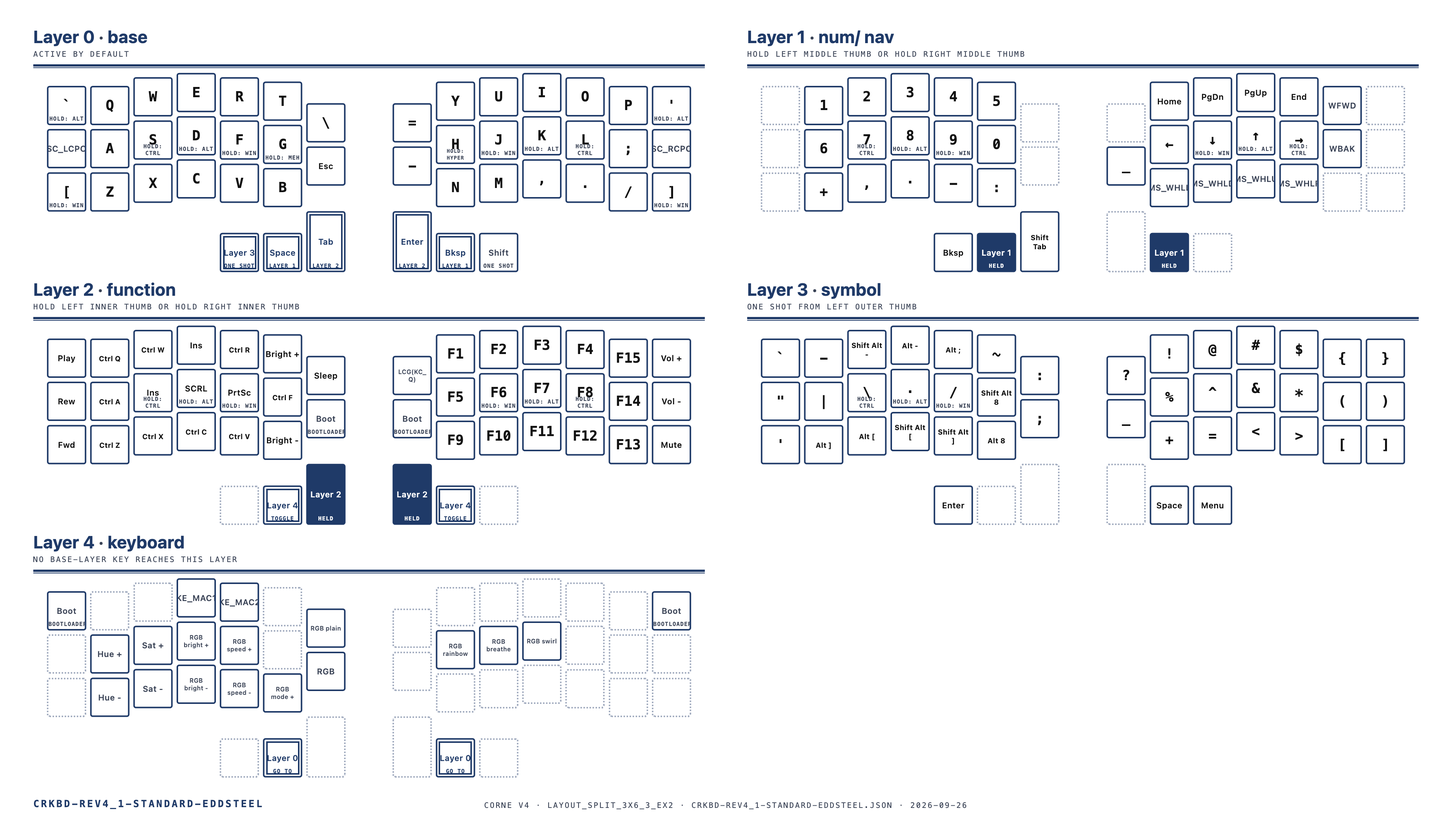
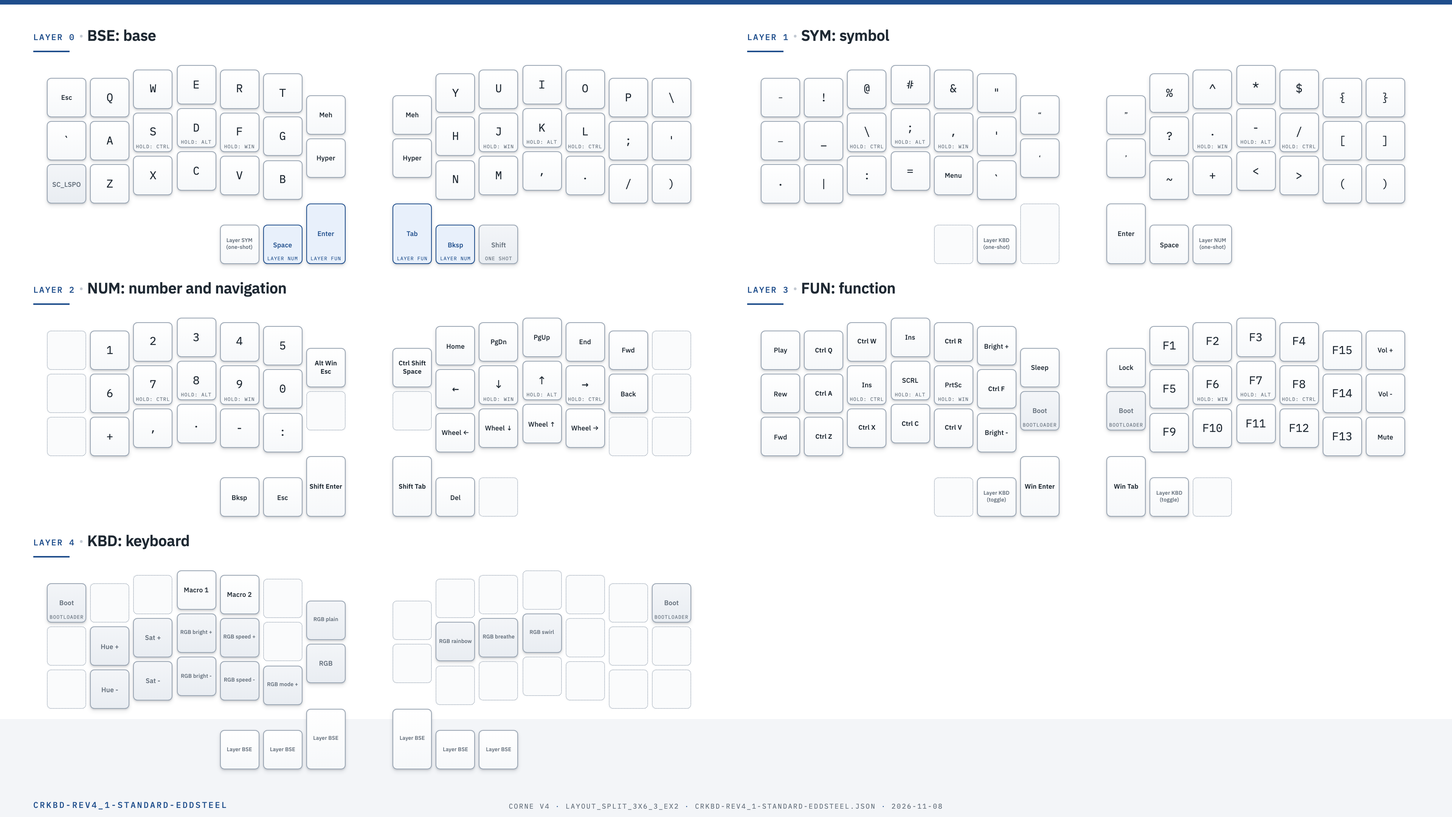
updated

diff --git a/keyboards/zsa/moonlander/reva/keymaps/eddsteel/keymap.c b/keyboards/zsa/moonlander/reva/keymaps/eddsteel/keymap.c
@@ -1,4 +1,5 @@
 #include QMK_KEYBOARD_H
+#include "version.h"
 #define MOON_LED_LEVEL LED_LEVEL
 #ifndef ZSA_SAFE_RANGE
 #define ZSA_SAFE_RANGE SAFE_RANGE
@@ -12,46 +13,49 @@ enum custom_keycodes {
   HSV_234_255_255,
 };
 
+
+
+
 const uint16_t PROGMEM keymaps[][MATRIX_ROWS][MATRIX_COLS] = {
   [0] = LAYOUT_moonlander(
     KC_TRANSPARENT, KC_TRANSPARENT, KC_TRANSPARENT, KC_TRANSPARENT, KC_TRANSPARENT, KC_TRANSPARENT, KC_TRANSPARENT,                                 KC_TRANSPARENT, KC_TRANSPARENT, KC_TRANSPARENT, KC_TRANSPARENT, KC_TRANSPARENT, KC_TRANSPARENT, KC_TRANSPARENT, 
-    MT(MOD_LALT, KC_GRAVE),KC_Q,           KC_W,           KC_E,           KC_R,           KC_T,           KC_BSLS,                                        KC_EQUAL,       KC_Y,           KC_U,           KC_I,           KC_O,           KC_P,           MT(MOD_RALT, KC_QUOTE),
-    SC_LCPO,        KC_A,           MT(MOD_LCTL, KC_S),MT(MOD_LALT, KC_D),MT(MOD_LGUI, KC_F),MEH_T(KC_G),    KC_ESCAPE,                                                                      KC_MINUS,       ALL_T(KC_H),    MT(MOD_RGUI, KC_J),MT(MOD_LALT, KC_K),MT(MOD_LCTL, KC_L),KC_SCLN,        SC_RCPC,        
-    MT(MOD_LGUI, KC_LBRC),KC_Z,           KC_X,           KC_C,           KC_V,           KC_B,                                           KC_N,           KC_M,           KC_COMMA,       KC_DOT,         KC_SLASH,       MT(MOD_RGUI, KC_RBRC),
-    KC_MEDIA_PLAY_PAUSE,KC_MEDIA_PREV_TRACK,KC_MEDIA_NEXT_TRACK,KC_TRANSPARENT, OSL(3),         KC_APPLICATION,                                                                                                 LCTL(KC_SPACE), OSM(MOD_LSFT),  KC_TRANSPARENT, KC_AUDIO_MUTE,  KC_AUDIO_VOL_DOWN,KC_AUDIO_VOL_UP,
-    LT(1, KC_SPACE),LT(2, KC_TAB),  KC_TRANSPARENT,                 KC_TRANSPARENT, LT(2, KC_ENTER),LT(1, KC_BSPC)
+    KC_ESCAPE,      KC_Q,           KC_W,           KC_E,           KC_R,           KC_T,           KC_MEH,                                         KC_MEH,         KC_Y,           KC_U,           KC_I,           KC_O,           KC_P,           KC_BSLS,        
+    KC_GRAVE,       KC_A,           MT(MOD_LCTL, KC_S),MT(MOD_LALT, KC_D),MT(MOD_LGUI, KC_F),MEH_T(KC_G),    KC_HYPR,                                                                        KC_HYPR,        ALL_T(KC_H),    MT(MOD_RGUI, KC_J),MT(MOD_LALT, KC_K),MT(MOD_LCTL, KC_L),KC_SCLN,        KC_QUOTE,       
+    SC_LSPO,        KC_Z,           KC_X,           KC_C,           KC_V,           KC_B,                                           KC_N,           KC_M,           KC_COMMA,       KC_DOT,         KC_SLASH,       KC_RPRN,        
+    KC_MEDIA_PLAY_PAUSE,KC_MEDIA_PREV_TRACK,KC_MEDIA_NEXT_TRACK,KC_TRANSPARENT, OSL(1),         KC_APPLICATION,                                                                                                 LCTL(KC_SPACE), OSM(MOD_LSFT),  KC_TRANSPARENT, KC_AUDIO_MUTE,  KC_AUDIO_VOL_DOWN,KC_AUDIO_VOL_UP,
+    LT(2, KC_SPACE),LT(3, KC_ENTER),KC_TRANSPARENT,                 KC_TRANSPARENT, LT(3, KC_TAB),  LT(2, KC_BSPC)
   ),
   [1] = LAYOUT_moonlander(
     KC_TRANSPARENT, KC_TRANSPARENT, KC_TRANSPARENT, KC_TRANSPARENT, KC_TRANSPARENT, KC_TRANSPARENT, KC_TRANSPARENT,                                 KC_TRANSPARENT, KC_TRANSPARENT, KC_TRANSPARENT, KC_TRANSPARENT, KC_TRANSPARENT, KC_TRANSPARENT, KC_TRANSPARENT, 
-    KC_TRANSPARENT, KC_1,           KC_2,           KC_3,           KC_4,           KC_5,           KC_TRANSPARENT,                                 KC_TRANSPARENT, KC_HOME,        KC_PGDN,        KC_PAGE_UP,     KC_END,         KC_WWW_FORWARD, KC_TRANSPARENT, 
-    KC_TRANSPARENT, KC_6,           MT(MOD_LCTL, KC_7),MT(MOD_LALT, KC_8),MT(MOD_LGUI, KC_9),KC_0,           KC_TRANSPARENT,                                                                 KC_UNDS,        KC_LEFT,        MT(MOD_RGUI, KC_DOWN),MT(MOD_LALT, KC_UP),MT(MOD_LCTL, KC_RIGHT),KC_WWW_BACK,    KC_TRANSPARENT, 
-    KC_TRANSPARENT, KC_PLUS,        KC_COMMA,       KC_DOT,         KC_MINUS,       KC_COLN,                                        KC_MS_WH_LEFT,  KC_MS_WH_DOWN,  KC_MS_WH_UP,    KC_MS_WH_RIGHT, KC_TRANSPARENT, KC_TRANSPARENT, 
-    KC_TRANSPARENT, KC_TRANSPARENT, KC_TRANSPARENT, KC_TRANSPARENT, KC_BSPC,        KC_TRANSPARENT,                                                                                                 KC_TRANSPARENT, KC_TRANSPARENT, KC_TRANSPARENT, KC_TRANSPARENT, KC_TRANSPARENT, KC_TRANSPARENT, 
-    KC_TRANSPARENT, LSFT(KC_TAB),   KC_TRANSPARENT,                 KC_TRANSPARENT, KC_TRANSPARENT, KC_DELETE
+    RALT(KC_MINUS), KC_EXLM,        KC_AT,          KC_HASH,        KC_AMPR,        KC_DQUO,        RALT(KC_LBRC),                                  LALT(LSFT(KC_LBRC)),KC_PERC,        KC_CIRC,        KC_ASTR,        KC_DLR,         KC_LCBR,        KC_RCBR,        
+    LALT(LSFT(KC_MINUS)),KC_UNDS,        MT(MOD_LCTL, KC_BSLS),MT(MOD_LALT, KC_SCLN),MT(MOD_LGUI, KC_COMMA),KC_QUOTE,       RALT(KC_RBRC),                                                                  LALT(LSFT(KC_RBRC)),KC_QUES,        MT(MOD_LGUI, KC_DOT),MT(MOD_LALT, KC_MINUS),MT(MOD_LCTL, KC_SLASH),KC_LBRC,        KC_RBRC,        
+    LALT(KC_8),     KC_PIPE,        KC_COLN,        KC_EQUAL,       KC_APPLICATION, KC_GRAVE,                                       KC_TILD,        KC_PLUS,        KC_LABK,        KC_RABK,        KC_LPRN,        KC_RPRN,        
+    KC_TRANSPARENT, KC_TRANSPARENT, KC_TRANSPARENT, KC_TRANSPARENT, KC_TRANSPARENT, KC_TRANSPARENT,                                                                                                 KC_TRANSPARENT, OSL(2),         KC_TRANSPARENT, KC_TRANSPARENT, KC_TRANSPARENT, KC_TRANSPARENT, 
+    OSL(4),         KC_TRANSPARENT, KC_TRANSPARENT,                 KC_TRANSPARENT, KC_ENTER,       KC_SPACE
   ),
   [2] = LAYOUT_moonlander(
+    KC_TRANSPARENT, KC_TRANSPARENT, KC_TRANSPARENT, KC_TRANSPARENT, KC_TRANSPARENT, KC_TRANSPARENT, KC_TRANSPARENT,                                 KC_TRANSPARENT, KC_TRANSPARENT, KC_TRANSPARENT, KC_TRANSPARENT, KC_TRANSPARENT, KC_TRANSPARENT, KC_TRANSPARENT, 
+    KC_TRANSPARENT, KC_1,           KC_2,           KC_3,           KC_4,           KC_5,           LALT(LGUI(KC_ESCAPE)),                                LCTL(LSFT(KC_SPACE)),KC_HOME,        KC_PGDN,        KC_PAGE_UP,     KC_END,         KC_WWW_FORWARD, KC_TRANSPARENT, 
+    KC_TRANSPARENT, KC_6,           MT(MOD_LCTL, KC_7),MT(MOD_LALT, KC_8),MT(MOD_LGUI, KC_9),KC_0,           KC_ESCAPE,                                                                      KC_UNDS,        KC_LEFT,        MT(MOD_RGUI, KC_DOWN),MT(MOD_LALT, KC_UP),MT(MOD_LCTL, KC_RIGHT),KC_WWW_BACK,    KC_TRANSPARENT, 
+    KC_TRANSPARENT, KC_PLUS,        KC_COMMA,       KC_DOT,         KC_MINUS,       KC_COLN,                                        KC_MS_WH_LEFT,  KC_MS_WH_DOWN,  KC_MS_WH_UP,    KC_MS_WH_RIGHT, KC_TRANSPARENT, KC_TRANSPARENT, 
+    KC_TRANSPARENT, KC_TRANSPARENT, KC_TRANSPARENT, KC_TRANSPARENT, KC_BSPC,        KC_TRANSPARENT,                                                                                                 KC_TRANSPARENT, KC_TRANSPARENT, KC_TRANSPARENT, KC_TRANSPARENT, KC_TRANSPARENT, KC_TRANSPARENT, 
+    KC_TRANSPARENT, LSFT(KC_ENTER), KC_TRANSPARENT,                 KC_TRANSPARENT, LSFT(KC_TAB),   KC_DELETE
+  ),
+  [3] = LAYOUT_moonlander(
     KC_TRANSPARENT, KC_TRANSPARENT, KC_TRANSPARENT, KC_TRANSPARENT, KC_TRANSPARENT, KC_TRANSPARENT, KC_TRANSPARENT,                                 KC_TRANSPARENT, KC_TRANSPARENT, KC_TRANSPARENT, KC_TRANSPARENT, KC_TRANSPARENT, KC_TRANSPARENT, KC_TRANSPARENT, 
     KC_MEDIA_PLAY_PAUSE,RCTL(KC_Q),     RCTL(KC_W),     KC_PAUSE,       RCTL(KC_R),     KC_BRIGHTNESS_UP,KC_SYSTEM_SLEEP,                                LGUI(LCTL(KC_Q)),KC_F1,          KC_F2,          KC_F3,          KC_F4,          KC_F15,         KC_AUDIO_VOL_UP,
     KC_MEDIA_PREV_TRACK,RCTL(KC_A),     MT(MOD_LCTL, KC_INSERT),MT(MOD_LALT, KC_SCRL),MT(MOD_LGUI, KC_PSCR),RCTL(KC_F),     QK_BOOT,                                                                        QK_BOOT,        KC_F5,          MT(MOD_RGUI, KC_F6),MT(MOD_LALT, KC_F7),MT(MOD_LCTL, KC_F8),KC_F14,         KC_AUDIO_VOL_DOWN,
     KC_MEDIA_NEXT_TRACK,RCTL(KC_Z),     RCTL(KC_X),     RCTL(KC_C),     RCTL(KC_V),     KC_BRIGHTNESS_DOWN,                                KC_F9,          KC_F10,         KC_F11,         KC_F12,         KC_F13,         KC_AUDIO_MUTE,  
     KC_TRANSPARENT, KC_TRANSPARENT, KC_TRANSPARENT, KC_TRANSPARENT, KC_TRANSPARENT, KC_TRANSPARENT,                                                                                                 KC_TRANSPARENT, KC_TRANSPARENT, KC_TRANSPARENT, KC_TRANSPARENT, KC_TRANSPARENT, KC_TRANSPARENT, 
-    TO(4),          LGUI(KC_TAB),   KC_TRANSPARENT,                 KC_TRANSPARENT, LGUI(KC_ENTER), TO(4)
-  ),
-  [3] = LAYOUT_moonlander(
-    KC_TRANSPARENT, KC_TRANSPARENT, KC_TRANSPARENT, KC_TRANSPARENT, KC_TRANSPARENT, KC_TRANSPARENT, KC_TRANSPARENT,                                 KC_TRANSPARENT, KC_TRANSPARENT, KC_TRANSPARENT, KC_TRANSPARENT, KC_TRANSPARENT, KC_TRANSPARENT, KC_TRANSPARENT, 
-    KC_GRAVE,       KC_MINUS,       RALT(RSFT(KC_MINUS)),RALT(KC_MINUS), LALT(KC_SCLN),  KC_TILD,        KC_COLN,                                        KC_QUES,        KC_EXLM,        KC_AT,          KC_HASH,        KC_DLR,         KC_LCBR,        KC_RCBR,        
-    KC_QUOTE,       KC_PIPE,        MT(MOD_LCTL, KC_BSLS),MT(MOD_LALT, KC_DOT),MT(MOD_LGUI, KC_SLASH),LALT(LSFT(KC_8)),KC_SCLN,                                                                        KC_UNDS,        KC_PERC,        KC_CIRC,        KC_AMPR,        KC_ASTR,        KC_LPRN,        KC_RPRN,        
-    KC_DQUO,        RALT(KC_RBRC),  RALT(KC_LBRC),  LALT(LSFT(KC_LBRC)),LALT(LSFT(KC_RBRC)),LALT(KC_8),                                     KC_PLUS,        KC_EQUAL,       KC_LABK,        KC_RABK,        KC_LBRC,        KC_RBRC,        
-    KC_TRANSPARENT, KC_TRANSPARENT, KC_TRANSPARENT, KC_TRANSPARENT, KC_TRANSPARENT, KC_TRANSPARENT,                                                                                                 KC_TRANSPARENT, KC_APPLICATION, KC_TRANSPARENT, KC_TRANSPARENT, KC_TRANSPARENT, KC_TRANSPARENT, 
-    KC_ENTER,       KC_TRANSPARENT, KC_TRANSPARENT,                 KC_TRANSPARENT, KC_TRANSPARENT, KC_SPACE
+    TO(4),          LGUI(KC_ENTER), KC_TRANSPARENT,                 KC_TRANSPARENT, LGUI(KC_TAB),   TO(4)
   ),
   [4] = LAYOUT_moonlander(
     KC_TRANSPARENT, KC_TRANSPARENT, KC_TRANSPARENT, KC_TRANSPARENT, KC_TRANSPARENT, KC_TRANSPARENT, KC_TRANSPARENT,                                 KC_TRANSPARENT, KC_TRANSPARENT, KC_TRANSPARENT, KC_TRANSPARENT, KC_TRANSPARENT, KC_TRANSPARENT, KC_TRANSPARENT, 
-    QK_BOOT,        RGB_HUI,        RGB_SAI,        RGB_VAI,        RGB_SPI,        KC_TRANSPARENT, KC_TRANSPARENT,                                 KC_TRANSPARENT, KC_TRANSPARENT, KC_TRANSPARENT, KC_TRANSPARENT, KC_TRANSPARENT, KC_TRANSPARENT, QK_BOOT,        
-    KC_TRANSPARENT, RGB_HUD,        RGB_SAD,        RGB_VAD,        RGB_SPD,        KC_TRANSPARENT, KC_TRANSPARENT,                                                                 KC_TRANSPARENT, HSV_1_230_255,  HSV_152_255_255,HSV_94_230_255, HSV_234_255_255,HSV_234_255_255,KC_TRANSPARENT, 
+    QK_BOOT,        RGB_HUI,        RGB_SAI,        RGB_VAI,        RGB_SPI,        KC_TRANSPARENT, MU_TOGG,                                        MU_NEXT,        KC_TRANSPARENT, KC_TRANSPARENT, KC_TRANSPARENT, KC_TRANSPARENT, KC_TRANSPARENT, QK_BOOT,        
+    KC_TRANSPARENT, RGB_HUD,        RGB_SAD,        RGB_VAD,        RGB_SPD,        MOON_LED_LEVEL, KC_TRANSPARENT,                                                                 KC_TRANSPARENT, HSV_1_230_255,  HSV_152_255_255,HSV_94_230_255, HSV_234_255_255,HSV_234_255_255,KC_TRANSPARENT, 
     KC_TRANSPARENT, RGB_TOG,        TOGGLE_LAYER_COLOR,RGB_MODE_FORWARD,RGB_SLD,        KC_TRANSPARENT,                                 KC_TRANSPARENT, KC_TRANSPARENT, KC_TRANSPARENT, KC_TRANSPARENT, KC_TRANSPARENT, KC_TRANSPARENT, 
     KC_TRANSPARENT, KC_TRANSPARENT, KC_TRANSPARENT, KC_TRANSPARENT, KC_TRANSPARENT, KC_TRANSPARENT,                                                                                                 KC_TRANSPARENT, KC_TRANSPARENT, KC_TRANSPARENT, KC_TRANSPARENT, KC_TRANSPARENT, KC_TRANSPARENT, 
-    TO(0),          KC_TRANSPARENT, KC_TRANSPARENT,                 KC_TRANSPARENT, KC_TRANSPARENT, TO(0)
+    KC_TRANSPARENT, TO(0),          TO(0),                          TO(0),          TO(0),          TO(0)
   ),
 };
 
@@ -82,11 +86,11 @@ void keyboard_post_init_user(void) {
 const uint8_t PROGMEM ledmap[][RGB_MATRIX_LED_COUNT][3] = {
     [0] = { {0,0,255}, {0,0,255}, {0,0,255}, {0,0,255}, {0,0,255}, {0,0,255}, {0,0,255}, {0,0,255}, {0,0,255}, {0,0,255}, {0,0,255}, {0,0,255}, {0,0,255}, {0,0,255}, {0,0,255}, {0,0,255}, {0,0,255}, {0,0,255}, {0,0,255}, {0,0,255}, {0,0,255}, {0,0,255}, {1,230,255}, {0,0,255}, {0,0,255}, {0,0,255}, {0,0,255}, {0,0,255}, {0,0,255}, {0,0,255}, {0,0,255}, {0,0,255}, {0,0,255}, {0,0,255}, {1,230,255}, {0,0,255}, {0,0,255}, {0,0,255}, {0,0,255}, {0,0,255}, {0,0,255}, {0,0,255}, {0,0,255}, {0,0,255}, {0,0,255}, {0,0,255}, {0,0,255}, {0,0,255}, {0,0,255}, {0,0,255}, {0,0,255}, {0,0,255}, {0,0,255}, {0,0,255}, {0,0,255}, {0,0,255}, {0,0,255}, {0,0,255}, {1,230,255}, {0,0,255}, {0,0,255}, {0,0,255}, {0,0,255}, {0,0,255}, {0,0,255}, {0,0,255}, {0,0,255}, {0,0,255}, {0,0,255}, {0,0,255}, {1,230,255}, {0,0,255} },
 
-    [1] = { {0,0,255}, {0,0,255}, {0,0,255}, {0,0,255}, {0,0,255}, {0,0,255}, {0,0,255}, {0,0,255}, {0,0,255}, {0,0,255}, {0,0,255}, {0,0,255}, {0,0,255}, {0,0,255}, {0,0,255}, {0,0,255}, {0,0,255}, {0,0,255}, {0,0,255}, {0,0,255}, {0,0,255}, {0,0,255}, {152,255,255}, {0,0,255}, {0,0,255}, {0,0,255}, {0,0,255}, {0,0,255}, {0,0,255}, {0,0,255}, {0,0,255}, {0,0,255}, {0,0,255}, {0,0,255}, {152,255,255}, {0,0,255}, {0,0,255}, {0,0,255}, {0,0,255}, {0,0,255}, {0,0,255}, {0,0,255}, {0,0,255}, {0,0,255}, {0,0,255}, {0,0,255}, {0,0,255}, {0,0,255}, {0,0,255}, {0,0,255}, {0,0,255}, {0,0,255}, {0,0,255}, {0,0,255}, {0,0,255}, {0,0,255}, {0,0,255}, {0,0,255}, {152,255,255}, {0,0,255}, {0,0,255}, {0,0,255}, {0,0,255}, {0,0,255}, {0,0,255}, {0,0,255}, {0,0,255}, {0,0,255}, {0,0,255}, {0,0,255}, {152,255,255}, {0,0,255} },
+    [1] = { {0,0,255}, {0,0,255}, {0,0,255}, {0,0,255}, {0,0,255}, {0,0,255}, {0,0,255}, {0,0,255}, {0,0,255}, {0,0,255}, {0,0,255}, {0,0,255}, {0,0,255}, {0,0,255}, {0,0,255}, {0,0,255}, {0,0,255}, {0,0,255}, {0,0,255}, {0,0,255}, {0,0,255}, {0,0,255}, {188,255,255}, {0,0,255}, {188,255,255}, {0,0,255}, {0,0,255}, {0,0,255}, {0,0,255}, {0,0,255}, {0,0,255}, {0,0,255}, {0,0,255}, {0,0,255}, {188,255,255}, {0,0,255}, {0,0,255}, {0,0,255}, {0,0,255}, {0,0,255}, {0,0,255}, {0,0,255}, {0,0,255}, {0,0,255}, {0,0,255}, {0,0,255}, {0,0,255}, {0,0,255}, {0,0,255}, {0,0,255}, {0,0,255}, {0,0,255}, {0,0,255}, {0,0,255}, {0,0,255}, {0,0,255}, {0,0,255}, {0,0,255}, {188,255,255}, {0,0,255}, {0,0,255}, {0,0,255}, {0,0,255}, {0,0,255}, {0,0,255}, {0,0,255}, {0,0,255}, {0,0,255}, {0,0,255}, {0,0,255}, {188,255,255}, {0,0,255} },
 
-    [2] = { {0,0,255}, {0,0,255}, {0,0,255}, {0,0,255}, {0,0,255}, {0,0,255}, {0,0,255}, {0,0,255}, {0,0,255}, {0,0,255}, {0,0,255}, {0,0,255}, {0,0,255}, {0,0,255}, {0,0,255}, {0,0,255}, {0,0,255}, {0,0,255}, {0,0,255}, {0,0,255}, {0,0,255}, {0,0,255}, {94,230,255}, {0,0,255}, {0,0,255}, {0,0,255}, {0,0,255}, {0,0,255}, {0,0,255}, {0,0,255}, {0,0,255}, {1,230,255}, {0,0,255}, {0,0,255}, {94,230,255}, {0,0,255}, {0,0,255}, {0,0,255}, {0,0,255}, {0,0,255}, {0,0,255}, {0,0,255}, {0,0,255}, {0,0,255}, {0,0,255}, {0,0,255}, {0,0,255}, {0,0,255}, {0,0,255}, {0,0,255}, {0,0,255}, {0,0,255}, {0,0,255}, {0,0,255}, {0,0,255}, {0,0,255}, {0,0,255}, {0,0,255}, {94,230,255}, {0,0,255}, {0,0,255}, {0,0,255}, {0,0,255}, {0,0,255}, {0,0,255}, {0,0,255}, {0,0,255}, {1,230,255}, {0,0,255}, {0,0,255}, {94,230,255}, {0,0,255} },
+    [2] = { {0,0,255}, {0,0,255}, {0,0,255}, {0,0,255}, {0,0,255}, {0,0,255}, {0,0,255}, {0,0,255}, {0,0,255}, {0,0,255}, {0,0,255}, {0,0,255}, {0,0,255}, {0,0,255}, {0,0,255}, {0,0,255}, {0,0,255}, {0,0,255}, {0,0,255}, {0,0,255}, {0,0,255}, {0,0,255}, {152,255,255}, {0,0,255}, {0,0,255}, {0,0,255}, {0,0,255}, {0,0,255}, {0,0,255}, {0,0,255}, {0,0,255}, {0,0,255}, {0,0,255}, {0,0,255}, {152,255,255}, {0,0,255}, {0,0,255}, {0,0,255}, {0,0,255}, {0,0,255}, {0,0,255}, {0,0,255}, {0,0,255}, {0,0,255}, {0,0,255}, {0,0,255}, {0,0,255}, {0,0,255}, {0,0,255}, {0,0,255}, {0,0,255}, {0,0,255}, {0,0,255}, {0,0,255}, {0,0,255}, {0,0,255}, {0,0,255}, {0,0,255}, {152,255,255}, {0,0,255}, {0,0,255}, {0,0,255}, {0,0,255}, {0,0,255}, {0,0,255}, {0,0,255}, {0,0,255}, {0,0,255}, {0,0,255}, {0,0,255}, {152,255,255}, {0,0,255} },
 
-    [3] = { {0,0,255}, {0,0,255}, {0,0,255}, {0,0,255}, {0,0,255}, {0,0,255}, {0,0,255}, {0,0,255}, {0,0,255}, {0,0,255}, {0,0,255}, {0,0,255}, {0,0,255}, {0,0,255}, {0,0,255}, {0,0,255}, {0,0,255}, {0,0,255}, {0,0,255}, {0,0,255}, {0,0,255}, {0,0,255}, {188,255,255}, {0,0,255}, {188,255,255}, {0,0,255}, {0,0,255}, {0,0,255}, {0,0,255}, {0,0,255}, {0,0,255}, {0,0,255}, {0,0,255}, {0,0,255}, {188,255,255}, {0,0,255}, {0,0,255}, {0,0,255}, {0,0,255}, {0,0,255}, {0,0,255}, {0,0,255}, {0,0,255}, {0,0,255}, {0,0,255}, {0,0,255}, {0,0,255}, {0,0,255}, {0,0,255}, {0,0,255}, {0,0,255}, {0,0,255}, {0,0,255}, {0,0,255}, {0,0,255}, {0,0,255}, {0,0,255}, {0,0,255}, {188,255,255}, {0,0,255}, {0,0,255}, {0,0,255}, {0,0,255}, {0,0,255}, {0,0,255}, {0,0,255}, {0,0,255}, {0,0,255}, {0,0,255}, {0,0,255}, {188,255,255}, {0,0,255} },
+    [3] = { {0,0,255}, {0,0,255}, {0,0,255}, {0,0,255}, {0,0,255}, {0,0,255}, {0,0,255}, {0,0,255}, {0,0,255}, {0,0,255}, {0,0,255}, {0,0,255}, {0,0,255}, {0,0,255}, {0,0,255}, {0,0,255}, {0,0,255}, {0,0,255}, {0,0,255}, {0,0,255}, {0,0,255}, {0,0,255}, {94,230,255}, {0,0,255}, {0,0,255}, {0,0,255}, {0,0,255}, {0,0,255}, {0,0,255}, {0,0,255}, {0,0,255}, {1,230,255}, {0,0,255}, {0,0,255}, {94,230,255}, {0,0,255}, {0,0,255}, {0,0,255}, {0,0,255}, {0,0,255}, {0,0,255}, {0,0,255}, {0,0,255}, {0,0,255}, {0,0,255}, {0,0,255}, {0,0,255}, {0,0,255}, {0,0,255}, {0,0,255}, {0,0,255}, {0,0,255}, {0,0,255}, {0,0,255}, {0,0,255}, {0,0,255}, {0,0,255}, {0,0,255}, {94,230,255}, {0,0,255}, {0,0,255}, {0,0,255}, {0,0,255}, {0,0,255}, {0,0,255}, {0,0,255}, {0,0,255}, {1,230,255}, {0,0,255}, {0,0,255}, {94,230,255}, {0,0,255} },
 
     [4] = { {0,0,255}, {1,230,255}, {0,0,255}, {0,0,255}, {0,0,255}, {0,0,255}, {0,0,255}, {0,0,255}, {0,0,255}, {0,0,255}, {0,0,255}, {0,0,255}, {0,0,255}, {0,0,255}, {0,0,255}, {0,0,255}, {0,0,255}, {0,0,255}, {0,0,255}, {0,0,255}, {0,0,255}, {0,0,255}, {234,255,255}, {0,0,255}, {0,0,255}, {0,0,255}, {0,0,255}, {0,0,255}, {0,0,255}, {0,0,255}, {0,0,255}, {0,0,255}, {0,0,255}, {0,0,255}, {234,255,255}, {0,0,255}, {0,0,255}, {0,255,255}, {0,0,255}, {0,0,255}, {0,0,255}, {0,0,255}, {0,0,255}, {234,255,255}, {0,0,255}, {0,0,255}, {0,0,255}, {0,0,255}, {188,255,255}, {0,0,255}, {0,0,255}, {0,0,255}, {0,0,255}, {0,0,255}, {0,0,255}, {0,0,255}, {0,0,255}, {0,0,255}, {152,255,255}, {0,0,255}, {0,0,255}, {0,0,255}, {0,0,255}, {1,230,255}, {0,0,255}, {0,0,255}, {0,0,255}, {0,0,255}, {0,0,255}, {0,0,255}, {234,255,255}, {0,0,255} },
 

diff --git a/keyboards/crkbd/rev4_1/standard/keymaps/eddsteel/keymap.c b/keyboards/crkbd/rev4_1/standard/keymaps/eddsteel/keymap.c
@@ -22,21 +22,21 @@ along with this program.  If not, see <http://www.gnu.org/licenses/>.
 
 #include QMK_KEYBOARD_H
 
-// pinky mods
-#define KE_LAGV LALT_T(KC_GRV)
-#define KE_LAQT LALT_T(KC_QUOT)
-#define KE_LGLB LGUI_T(KC_LBRC)
-#define KE_RGRB RGUI_T(KC_RBRC)
-
 // base home row
 #define KE_LCKS LCTL_T(KC_S)
 #define KE_LAKD LALT_T(KC_D)
 #define KE_LGKF LGUI_T(KC_F)
-#define KE_MEKG MEH_T(KC_G)
-#define KE_HYKH ALL_T(KC_H)
 #define KE_RGKJ RGUI_T(KC_J)
 #define KE_LAKK LALT_T(KC_K)
 #define KE_LCKL LCTL_T(KC_L)
+
+// symbol home row
+#define KE_LCBS LCTL_T(KC_BSLS)
+#define KE_LASC LALT_T(KC_SCLN)
+#define KE_LGCM LGUI_T(KC_COMM)
+#define KE_RGDT RGUI_T(KC_DOT)
+#define KE_LAMN LALT_T(KC_MINS)
+#define KE_LCSL LCTL_T(KC_SLSH)
 
 // nav/num home row
 #define KE_LCK7 LCTL_T(KC_7)
@@ -65,34 +65,29 @@ along with this program.  If not, see <http://www.gnu.org/licenses/>.
 #define KE_RCX RCTL(KC_X)
 #define KE_RCZ RCTL(KC_Z)
 
-// symbol home row
-#define KE_LCBS LCTL_T(KC_BSLS)
-#define KE_LAPD LALT_T(KC_DOT)
-#define KE_LGSL LGUI_T(KC_SLSH)
-// symbols are out of range
-
 // thumbs
-#define KE_LAY3 OSL(3)
-#define KE_L1SP LT(1, KC_SPC)
-#define KE_L2TA LT(2, KC_TAB)
-#define KE_L2EN LT(2, KC_ENT)
-#define KE_L1BS LT(1, KC_BSPC)
+#define KE_LSYM OSL(SYM)
+#define KE_LNSP LT(NUM, KC_SPC)
+#define KE_LFTA LT(FUN, KC_TAB)
+#define KE_LFEN LT(FUN, KC_ENT)
+#define KE_LNBS LT(NUM, KC_BSPC)
 #define KE_SHFT OSM(MOD_LSFT)
 
 // keys with mods
 #define KE_STAB S(KC_TAB)
+#define KE_SENT S(KC_ENT)
 #define KE_LGEN G(KC_ENT)
 #define KE_LGTB G(KC_TAB)
-#define KE_NDSH LSA(KC_MINS)
-#define KE_MDSH A(KC_MINS)
-#define KE_ELPS A(KC_SCLN)
-#define KE_DEGR LSA(KC_8)
+#define KE_NDSH A(KC_MINS)
+#define KE_MDSH LSA(KC_MINS)
 #define KE_BULL A(KC_8)
 #define KE_FLSQ A(KC_RBRC)
 #define KE_FLDQ A(KC_LBRC)
 #define KE_FRDQ LSA(KC_LBRC)
 #define KE_FRSQ LSA(KC_RBRC)
 #define KE_LCGQ LCG(KC_Q)
+#define KE_LCSS LCS(KC_SPC)
+#define KE_LGAE LAG(KC_ESC)
 
 enum custom_keycodes {
     KE_MAC1 = SAFE_RANGE,
@@ -100,11 +95,11 @@ enum custom_keycodes {
 };
 
 enum {
-  BASE = 0,
-  NNUM,
-  FUNN,
-  SYMB,
-  KYBD,
+  BSE = 0, // base
+  SYM, // symbols
+  NUM, // numbers / navigation
+  FUN, // function
+  KBD, // keyboard
   NLYRS
 };
 
@@ -124,35 +119,43 @@ bool process_record_user(uint16_t keycode, keyrecord_t *record) {
     return true;
 };
 
+const char chordal_hold_layout[MATRIX_ROWS][MATRIX_COLS] PROGMEM = LAYOUT_split_3x6_3_ex2(
+  'L', 'L', 'L', 'L', 'L', 'L', 'L', 'R', 'R', 'R', 'R', 'R', 'R', 'R',
+  'L', 'L', 'L', 'L', 'L', 'L', 'L', 'R', 'R', 'R', 'R', 'R', 'R', 'R',
+  'L', 'L', 'L', 'L', 'L', 'L',           'R', 'R', 'R', 'R', 'R', 'R',
+                      '*', '*', '*', '*', '*', '*'
+);
+
+
 const uint16_t PROGMEM keymaps[][MATRIX_ROWS][MATRIX_COLS] = {
-    [BASE] = LAYOUT_split_3x6_3_ex2(
-        KE_LAGV,  KC_Q,    KC_W,    KC_E,    KC_R,    KC_T,  KC_BSLS,     KC_EQL,    KC_Y,    KC_U,    KC_I,    KC_O,   KC_P,  KE_LAQT,
-        SC_LCPO,  KC_A, KE_LCKS, KE_LAKD, KE_LGKF, KE_MEKG,   KC_ESC,    KC_MINS, KE_HYKH, KE_RGKJ, KE_LAKK, KE_LCKL, KC_SCLN, SC_RCPC,
-        KE_LGLB,  KC_Z,    KC_X,    KC_C,    KC_V,    KC_B,                          KC_N,    KC_M, KC_COMM,  KC_DOT, KC_SLSH, KE_RGRB,
-                                          KE_LAY3, KE_L1SP,  KE_L2TA,    KE_L2EN, KE_L1BS, KE_SHFT
+    [BSE] = LAYOUT_split_3x6_3_ex2(
+         KC_ESC,    KC_Q,    KC_W,    KC_E,    KC_R,    KC_T,   KC_MEH,     KC_MEH,    KC_Y,    KC_U,    KC_I,    KC_O,   KC_P,  KC_BSLS,
+         KC_GRV,    KC_A, KE_LCKS, KE_LAKD, KE_LGKF,    KC_G,  KC_HYPR,    KC_HYPR,    KC_H, KE_RGKJ, KE_LAKK, KE_LCKL, KC_SCLN, KC_QUOT,
+        SC_LSPO,    KC_Z,    KC_X,    KC_C,    KC_V,    KC_B,                          KC_N,    KC_M, KC_COMM,  KC_DOT, KC_SLSH, KC_RPRN,
+                                            KE_LSYM, KE_LNSP,  KE_LFEN,    KE_LFTA, KE_LNBS, KE_SHFT
     ),
-    [NNUM] = LAYOUT_split_3x6_3_ex2(
-       _______,    KC_1,    KC_2,    KC_3,    KC_4,    KC_5, _______,    _______, KC_HOME, KC_PGDN, KC_PGUP,  KC_END, KC_WFWD, _______,
-       _______,    KC_6, KE_LCK7, KE_LAK8, KE_LGK9,    KC_0, _______,    KC_UNDS, KC_LEFT, KE_RGDN, KE_LAUP, KE_LCRT, KC_WBAK, _______,
-       _______, KC_PLUS, KC_COMM,  KC_DOT, KC_MINS, KC_COLN,                      MS_WHLL, MS_WHLD, MS_WHLU, MS_WHLR, _______, _______,
-                                           KC_BSPC, _______, KE_STAB,    _______,  KC_DEL, _______
+    [SYM] = LAYOUT_split_3x6_3_ex2(
+        KE_NDSH, KC_EXLM,   KC_AT, KC_HASH, KC_AMPR, KC_DQUO, KE_FLDQ,    KE_FRDQ, KC_PERC, KC_CIRC, KC_ASTR,  KC_DLR, KC_LCBR, KC_RCBR,
+        KE_MDSH, KC_UNDS, KE_LCBS, KE_LASC, KE_LGCM, KC_QUOT, KE_FLSQ,    KE_FRSQ, KC_QUES, KE_RGDT, KE_LAMN, KE_LCSL, KC_LBRC, KC_RBRC,
+        KE_BULL, KC_PIPE, KC_COLN,  KC_EQL,  KC_APP,  KC_GRV,                      KC_TILD, KC_PLUS,   KC_LT,   KC_GT, KC_LPRN, KC_RPRN,
+                                            _______,OSL(KBD), _______,     KC_ENT,  KC_SPC, OSL(NUM)
     ),
-    [FUNN] = LAYOUT_split_3x6_3_ex2(
-       KC_MPLY,  KE_RCQ,  KE_RCW,  KC_INS,  KE_RCR, KC_BRIU, KC_SLEP,    KE_LCGQ,   KC_F1,   KC_F2,   KC_F3,   KC_F4,  KC_F15, KC_VOLU,
-       KC_MRWD,  KE_RCA, KE_LCIN, KE_LASL, KE_LGPS,  KE_RCF, QK_BOOT,    QK_BOOT,   KC_F5, KE_RGF6, KE_LAF7, KE_LCF8,  KC_F14, KC_VOLD,
-       KC_MFFD,  KE_RCZ,  KE_RCX,  KE_RCC,  KE_RCV, KC_BRID,                        KC_F9,  KC_F10,  KC_F11,  KC_F12,  KC_F13, KC_MUTE,
-                                           _______,   TG(4), KE_LGTB,    KE_LGEN,   TG(4), _______
+    [NUM] = LAYOUT_split_3x6_3_ex2(
+        _______,    KC_1,    KC_2,    KC_3,    KC_4,    KC_5, KE_LGAE,    KE_LCSS, KC_HOME, KC_PGDN, KC_PGUP,  KC_END, KC_WFWD, _______,
+        _______,    KC_6, KE_LCK7, KE_LAK8, KE_LGK9,    KC_0, _______,    _______, KC_LEFT, KE_RGDN, KE_LAUP, KE_LCRT, KC_WBAK, _______,
+        _______, KC_PLUS, KC_COMM,  KC_DOT, KC_MINS, KC_COLN,                      MS_WHLL, MS_WHLD, MS_WHLU, MS_WHLR, _______, _______,
+                                            KC_BSPC,  KC_ESC, KE_SENT,    KE_STAB,  KC_DEL, _______
     ),
-    [SYMB] = LAYOUT_split_3x6_3_ex2(
-        KC_GRV, KC_MINS, KE_NDSH, KE_MDSH, KE_ELPS, KC_TILD, KC_COLN,    KC_QUES, KC_EXLM,   KC_AT, KC_HASH,  KC_DLR, KC_LCBR, KC_RCBR,
-       KC_DQUO, KC_PIPE, KE_LCBS, KE_LAPD, KE_LGSL, KE_DEGR, KC_SCLN,    KC_UNDS, KC_PERC, KC_CIRC, KC_AMPR, KC_ASTR, KC_LPRN, KC_RPRN,
-       KC_QUOT, KE_FLSQ, KE_FLDQ, KE_FRDQ, KE_FRSQ, KE_BULL,                      KC_PLUS,  KC_EQL,   KC_LT,   KC_GT, KC_LBRC, KC_RBRC,
-                                            KC_ENT, _______, _______,    _______,  KC_SPC,   KC_APP
+    [FUN] = LAYOUT_split_3x6_3_ex2(
+        KC_MPLY,  KE_RCQ,  KE_RCW,  KC_INS,  KE_RCR, KC_BRIU, KC_SLEP,    KE_LCGQ,   KC_F1,   KC_F2,   KC_F3,   KC_F4,  KC_F15, KC_VOLU,
+        KC_MRWD,  KE_RCA, KE_LCIN, KE_LASL, KE_LGPS,  KE_RCF, QK_BOOT,    QK_BOOT,   KC_F5, KE_RGF6, KE_LAF7, KE_LCF8,  KC_F14, KC_VOLD,
+        KC_MFFD,  KE_RCZ,  KE_RCX,  KE_RCC,  KE_RCV, KC_BRID,                        KC_F9,  KC_F10,  KC_F11,  KC_F12,  KC_F13, KC_MUTE,
+                                           _______,  TG(KBD), KE_LGEN,    KE_LGTB, TG(KBD), _______
     ),
-    [KYBD] = LAYOUT_split_3x6_3_ex2(
-       QK_BOOT, XXXXXXX, XXXXXXX, KE_MAC1, KE_MAC2, XXXXXXX, RGB_M_P,    XXXXXXX, XXXXXXX, XXXXXXX, XXXXXXX, XXXXXXX, XXXXXXX, QK_BOOT,
-       _______, RM_HUEU, RM_SATU, RM_VALU, RM_SPDU, XXXXXXX, RM_TOGG,    XXXXXXX, RGB_M_R, RGB_M_B,RGB_M_SW, XXXXXXX, XXXXXXX, XXXXXXX,
-       _______, RM_HUED, RM_SATD, RM_VALD, RM_SPDD, RM_NEXT,                      XXXXXXX, XXXXXXX, XXXXXXX, XXXXXXX, XXXXXXX, XXXXXXX,
-                                             _______, TO(0), _______,    _______,   TO(0), _______
+    [KBD] = LAYOUT_split_3x6_3_ex2(
+        QK_BOOT, XXXXXXX, XXXXXXX, KE_MAC1, KE_MAC2, XXXXXXX, RGB_M_P,    XXXXXXX, XXXXXXX, XXXXXXX, XXXXXXX, XXXXXXX, XXXXXXX, QK_BOOT,
+        _______, RM_HUEU, RM_SATU, RM_VALU, RM_SPDU, XXXXXXX, RM_TOGG,    XXXXXXX, RGB_M_R, RGB_M_B,RGB_M_SW, XXXXXXX, XXXXXXX, XXXXXXX,
+        _______, RM_HUED, RM_SATD, RM_VALD, RM_SPDD, RM_NEXT,                      XXXXXXX, XXXXXXX, XXXXXXX, XXXXXXX, XXXXXXX, XXXXXXX,
+                                            TO(BSE), TO(BSE), TO(BSE),    TO(BSE), TO(BSE), TO(BSE)
     )
 };

diff --git a/keyboards/zsa/moonlander/reva/keymaps/eddsteel/config.h b/keyboards/zsa/moonlander/reva/keymaps/eddsteel/config.h
@@ -3,7 +3,7 @@
 #define PERMISSIVE_HOLD
 
 #define USB_SUSPEND_WAKEUP_DELAY 0
-#define SERIAL_NUMBER "4Wrzm/B4KWvB"
+#define SERIAL_NUMBER "4Wrzm/pjMmdE"
 #define LAYER_STATE_8BIT
 
 #define RGB_MATRIX_STARTUP_SPD 60
